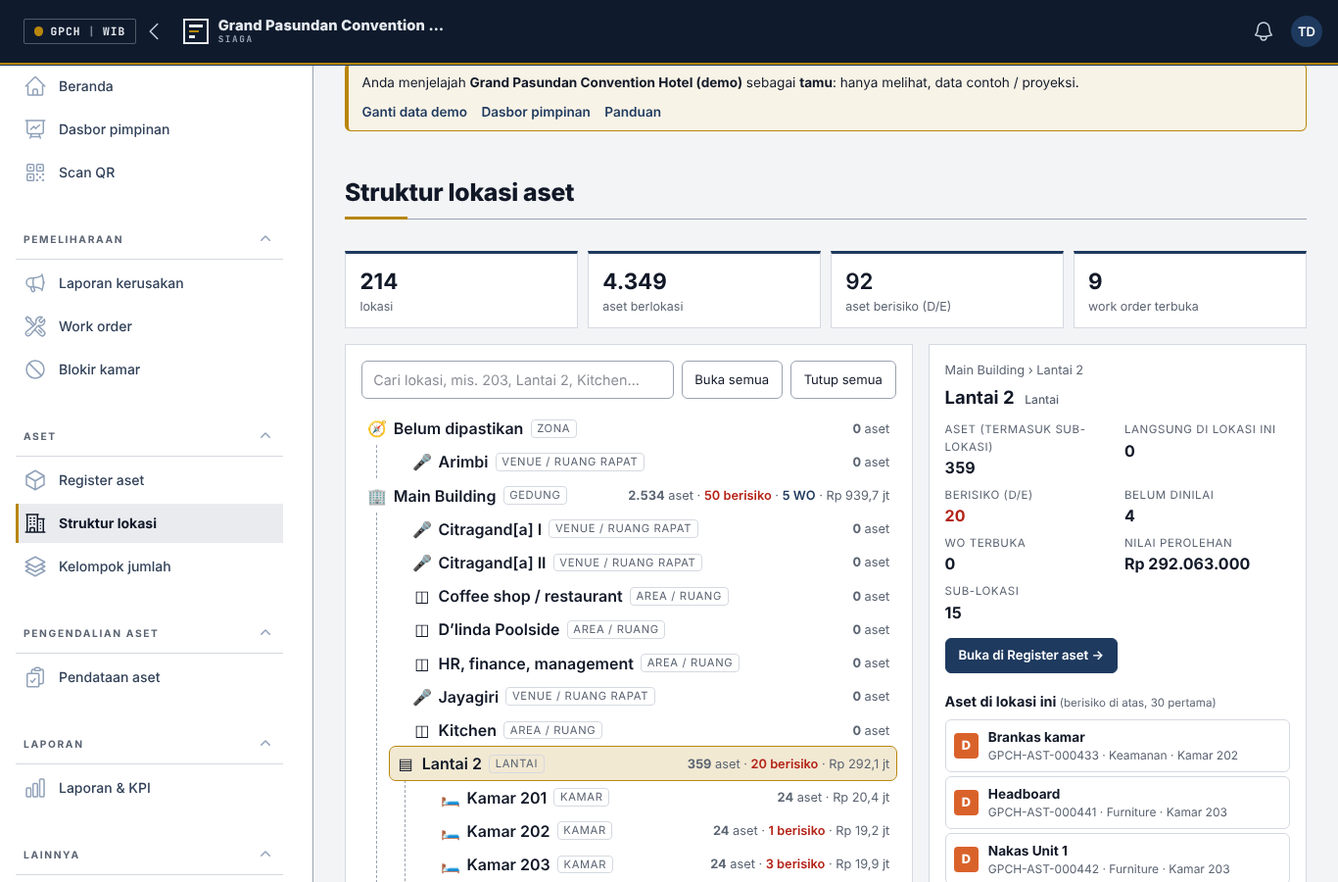
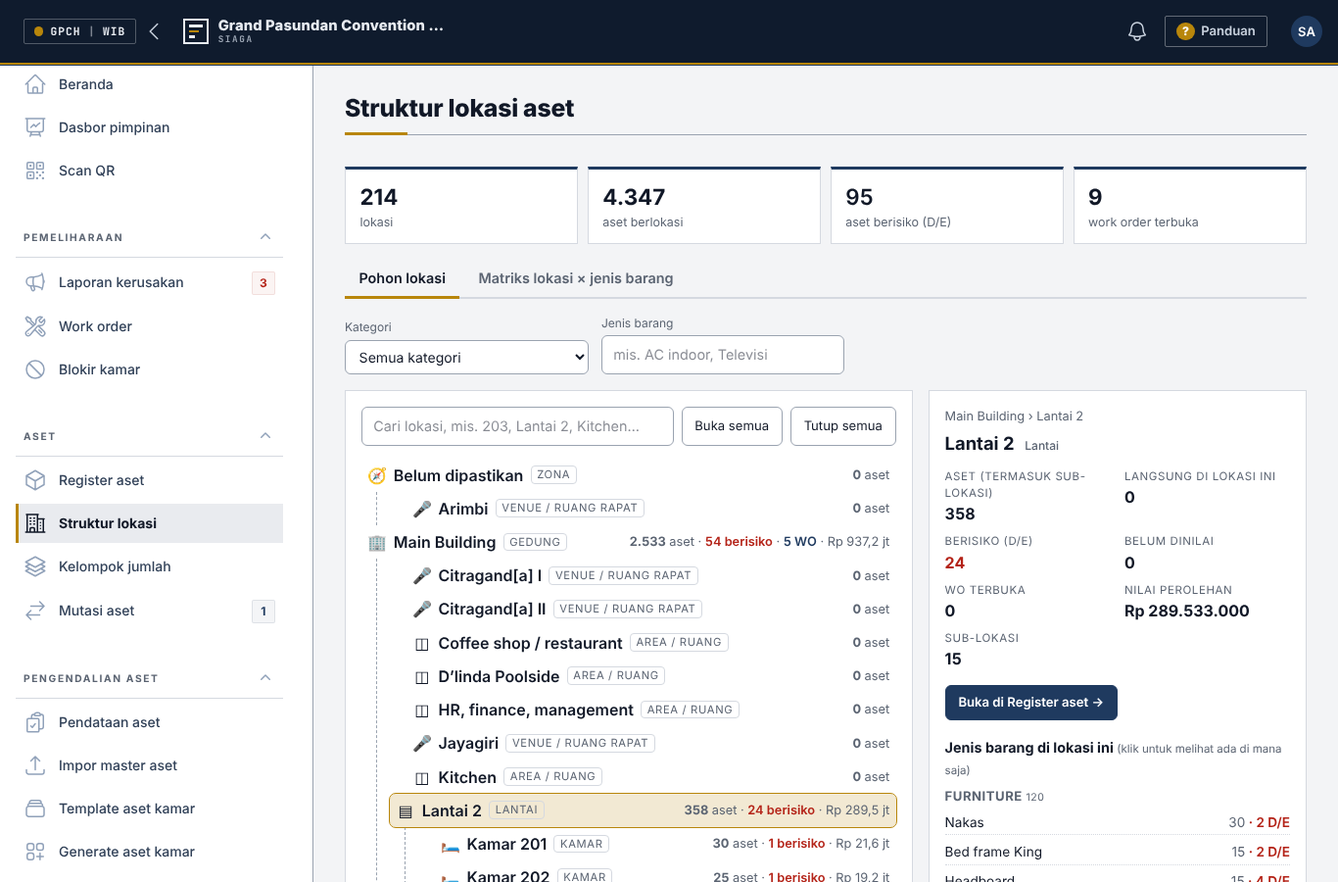
Struktur lokasi: jenis barang per lokasi, filter jenis/kategori, matriks lokasi × jenis barang; dasar peran Direksi grup
Claude-Session: https://claude.ai/code/session_01B7oP2Fde9AGkim8Y5jbJ7W

diff --git a/public/css/assetcare.css b/public/css/assetcare.css
@@ -563,3 +563,32 @@ a { text-underline-offset: 3px; }
 .hp-act { display: flex; flex-wrap: wrap; gap: .4rem; align-items: center; }
 .hp-act input { padding: .4rem .55rem; border: 1px solid var(--k-garis-tegas); background: var(--k-kartu); color: var(--k-tinta); border-radius: 6px; font-size: .85rem; }
 .hp-act input[type=text] { flex: 1 1 200px; }
+.sl-filter { align-items: flex-end; }
+.sl-filter .sl-q { min-width: 14rem; flex: none; height: auto; }
+.sl-views { flex-basis: 100%; margin: 0 0 .2rem; }
+.sl-where { margin: 0 0 1rem; } .sl-where a { color: var(--p); }
+.sl-types { display: grid; gap: .6rem; }
+.sl-tcat { margin: 0 0 .2rem; font-weight: 700; font-size: .82rem; text-transform: uppercase; letter-spacing: .04em; color: var(--k-tinta-2); }
+.sl-tcat small { font-weight: 400; }
+.sl-types ul { list-style: none; margin: 0; padding: 0; display: grid; grid-template-columns: repeat(auto-fill, minmax(170px, 1fr)); gap: .25rem .8rem; }
+.sl-types li { display: flex; justify-content: space-between; gap: .4rem; font-size: .85rem; border-bottom: 1px dotted var(--k-garis); padding: .15rem 0; }
+.sl-types a { color: var(--k-tinta); text-decoration: none; } .sl-types a:hover { color: var(--p); text-decoration: underline; }
+.sl-types span { color: var(--k-tinta-2); white-space: nowrap; }
+.sl-mx-card { padding: .8rem; }
+.sl-mx-wrap { overflow: auto; max-height: 75vh; border: 1px solid var(--k-garis); }
+.sl-mx { border-collapse: separate; border-spacing: 0; font-size: .8rem; }
+.sl-mx th, .sl-mx td { border-right: 1px solid var(--k-garis); border-bottom: 1px solid var(--k-garis); }
+.sl-mx thead th { position: sticky; top: 0; background: var(--k-kartu); z-index: 2; }
+.sl-mx-corner { position: sticky; left: 0; z-index: 3 !important; text-align: left; font-size: .72rem; color: var(--k-tinta-2); padding: .4rem; vertical-align: bottom; min-width: 14rem; }
+.sl-mx-col { height: 9.5rem; width: 2.6rem; min-width: 2.6rem; vertical-align: bottom; padding: .3rem 0; }
+.sl-mx-col span, .sl-mx-col a { writing-mode: vertical-rl; transform: rotate(180deg); white-space: nowrap; font-weight: 600; color: var(--k-tinta); text-decoration: none; font-size: .78rem; margin: 0 auto; display: block; max-height: 9rem; overflow: hidden; text-overflow: ellipsis; }
+.sl-mx-col a:hover span { color: var(--p); text-decoration: underline; }
+.sl-mx-row { position: sticky; left: 0; background: var(--k-kartu); z-index: 1; text-align: left; font-weight: 500; padding: .3rem .5rem; white-space: nowrap; max-width: 22rem; overflow: hidden; text-overflow: ellipsis; }
+.sl-mx-row a { color: var(--k-tinta); text-decoration: none; } .sl-mx-row a:hover { color: var(--p); text-decoration: underline; }
+.sl-mx td { text-align: center; padding: 0; height: 1.9rem; font-variant-numeric: tabular-nums; }
+.sl-mx td[style] { background: color-mix(in srgb, var(--p) calc(var(--mx) * 100%), var(--k-kartu)); }
+.sl-mx td a { display: block; line-height: 1.9rem; color: var(--k-tinta); text-decoration: none; }
+.sl-mx td.dk a { color: #fff; font-weight: 600; }
+.sl-mx td a:hover { outline: 2px solid var(--a); outline-offset: -2px; }
+.sl-mx-sum { font-weight: 700; background: var(--k-latar, transparent); padding: 0 .4rem !important; }
+.sl-mx tfoot th, .sl-mx tfoot td { position: sticky; bottom: 0; background: var(--k-kartu); }

diff --git a/app/Filament/Pages/StrukturLokasi.php b/app/Filament/Pages/StrukturLokasi.php
@@ -31,6 +31,33 @@ class StrukturLokasi extends Page
     #[Url(as: 'pilih')]
     public ?int $pilih = null;
 
+    #[Url]
+    public ?int $kategori = null;
+
+    #[Url]
+    public ?string $jenis = null;
+
+    #[Url]
+    public string $tampilan = 'pohon';
+
+    #[Url]
+    public string $baris = 'lantai';
+
+    /** "Nakas Unit 2" → "Nakas"; "Lampu baca/tidur Unit 1" → "Lampu baca/tidur" */
+    public static function typeName(string $name): string
+    {
+        return trim(preg_replace('/\s+(unit|no\.?|#)\s*\d+$/i', '', $name));
+    }
+
+    /** Terapkan filter kategori / jenis barang ke query aset. */
+    protected function filterAssets($q)
+    {
+        return $q->when($this->kategori, fn ($q) => $q->where('category_id', $this->kategori))
+            ->when(filled($this->jenis), fn ($q) => $q->where(fn ($w) => $w->where('name', $this->jenis)
+                ->orWhere('name', 'like', addcslashes($this->jenis, '%_\\').' Unit %')
+                ->orWhere('name', 'like', addcslashes($this->jenis, '%_\\').' No%')));
+    }
+
     public static function canAccess(): bool
     {
         return (bool) auth()->user()?->hasPermission('asset.view');
@@ -44,15 +71,17 @@ class StrukturLokasi extends Page
             ->get(['id', 'parent_id', 'name', 'code', 'location_type', 'room_ref', 'full_path', 'pms_room_status']);
 
         // agregat aset per lokasi langsung
-        $rows = Asset::query()->where('lifecycle_status', '!=', 'disposed')->whereNotNull('location_id')
+        $filtered = $this->kategori || filled($this->jenis);
+        $rows = $this->filterAssets(Asset::query())->whereNotIn('lifecycle_status', ['disposed', 'lost'])->whereNotNull('location_id')
             ->select('location_id', DB::raw('count(*) as n'),
                 DB::raw("sum(condition_grade in ('D','E')) as risk"),
                 DB::raw('sum(condition_grade is null) as unrated'))
             ->groupBy('location_id')->get()->keyBy('location_id');
-        $value = $financial ? DB::table('assets')->join('asset_financials', 'asset_financials.asset_id', '=', 'assets.id')
-            ->where('assets.property_id', $pid)->whereNotNull('assets.location_id')
+        $value = $financial ? $this->filterAssets(DB::table('assets'))->join('asset_financials', 'asset_financials.asset_id', '=', 'assets.id')
+            ->where('assets.property_id', $pid)->whereNotNull('assets.location_id')->whereNotIn('assets.lifecycle_status', ['disposed', 'lost'])
             ->groupBy('assets.location_id')->selectRaw('assets.location_id as loc, sum(asset_financials.acquisition_cost) as v')->pluck('v', 'loc') : collect();
         $wo = WorkOrder::query()->whereIn('status', WorkOrder::OPEN)->whereNotNull('location_id')
+            ->when($this->kategori || filled($this->jenis), fn ($q) => $q->whereIn('asset_id', $this->filterAssets(Asset::query())->select('id')))
             ->groupBy('location_id')->selectRaw('location_id, count(*) as c')->pluck('c', 'location_id');
 
         $nodes = [];
@@ -87,8 +116,16 @@ class StrukturLokasi extends Page
             $sum($r);
         }
 
+        if ($filtered) {
+            $keep = fn (int $id) => $nodes[$id]['n'] > 0;
+            foreach ($nodes as $id => $n) {
+                $nodes[$id]['children'] = array_values(array_filter($n['children'], $keep));
+            }
+            $roots = array_values(array_filter($roots, $keep));
+        }
         $sel = $this->pilih && isset($nodes[$this->pilih]) ? $nodes[$this->pilih] : null;
         $selAssets = collect();
+        $selTypes = collect();
         $crumbs = [];
         if ($sel) {
             $ids = [];
@@ -99,8 +136,15 @@ class StrukturLokasi extends Page
                 }
             };
             $walk($sel['id']);
-            $selAssets = Asset::query()->with(['category:id,name', 'location:id,name'])->whereIn('location_id', $ids)
-                ->where('lifecycle_status', '!=', 'disposed')
+            // jenis barang di lokasi ini (termasuk sub-lokasi)
+            $selTypes = Asset::query()->whereIn('location_id', $ids)->whereNotIn('lifecycle_status', ['disposed', 'lost'])
+                ->with('category:id,name')->select('name', 'category_id', DB::raw('count(*) as n'), DB::raw("sum(condition_grade in ('D','E')) as risk"))
+                ->groupBy('name', 'category_id')->get()
+                ->groupBy(fn ($r) => $r->category?->name ?? 'Tanpa kategori')
+                ->map(fn ($g) => $g->groupBy(fn ($r) => static::typeName($r->name))->map(fn ($x) => ['n' => $x->sum('n'), 'risk' => (int) $x->sum('risk')])->sortByDesc('n'))
+                ->sortByDesc(fn ($g) => $g->sum('n'));
+            $selAssets = $this->filterAssets(Asset::query())->with(['category:id,name', 'location:id,name'])->whereIn('location_id', $ids)
+                ->whereNotIn('lifecycle_status', ['disposed', 'lost'])
                 ->orderByRaw("case when condition_grade in ('D','E') then 0 when condition_grade = 'C' then 1 else 2 end")
                 ->orderBy('asset_code')->limit(30)->get();
             for ($p = $sel; $p; $p = $p['parent'] ? ($nodes[$p['parent']] ?? null) : null) {
@@ -108,13 +152,72 @@ class StrukturLokasi extends Page
             }
         }
 
+        $matrix = $this->tampilan === 'matriks' ? $this->matrix($nodes, $roots) : null;
+
         return [
-            'nodes' => $nodes, 'roots' => $roots, 'sel' => $sel, 'selAssets' => $selAssets, 'crumbs' => $crumbs,
+            'matrix' => $matrix,
+            'nodes' => $nodes, 'roots' => $roots, 'sel' => $sel, 'selAssets' => $selAssets, 'crumbs' => $crumbs, 'selTypes' => $selTypes,
+            'filtered' => $filtered, 'categories' => \App\Models\AssetCategory::query()->orderBy('name')->pluck('name', 'id'),
+            'typeOptions' => Asset::query()->whereNotIn('lifecycle_status', ['disposed', 'lost'])->when($this->kategori, fn ($q) => $q->where('category_id', $this->kategori))
+                ->distinct()->pluck('name')->map(fn ($n) => static::typeName($n))->unique()->sort(SORT_NATURAL | SORT_FLAG_CASE)->values(),
+            'whereList' => $filtered ? collect($nodes)->filter(fn ($n) => $n['own'] > 0)->sortByDesc('own')->take(12)->values() : collect(),
             'financial' => $financial, 'types' => Location::TYPES,
             'total' => ['loc' => count($nodes), 'n' => array_sum(array_map(fn ($r) => $nodes[$r]['n'], $roots)),
                 'risk' => array_sum(array_map(fn ($r) => $nodes[$r]['risk'], $roots)), 'wo' => array_sum(array_map(fn ($r) => $nodes[$r]['wo'], $roots))],
-            'assetsUrl' => fn (int $loc) => AssetResource::getUrl('index').'?'.http_build_query(['filters' => ['location_id' => ['value' => $loc]]]),
+            'assetsUrl' => fn (int $loc) => AssetResource::getUrl('index').'?'.http_build_query(array_filter(['filters' => array_filter(['location_id' => ['value' => $loc], 'category_id' => $this->kategori ? ['value' => $this->kategori] : null]), 'search' => $this->jenis ?: null])),
+            'link' => fn (array $p) => '?'.http_build_query(array_filter($p + ['pilih' => $this->pilih, 'kategori' => $this->kategori, 'jenis' => $this->jenis], fn ($v) => $v !== null && $v !== '')),
             'assetUrl' => fn (Asset $a) => AssetResource::getUrl('view', ['record' => $a]),
         ];
+    }
+
+    /**
+     * Matriks lokasi × jenis barang. Baris = lokasi pada tingkat terpilih (gedung / lantai / ruang),
+     * kolom = kategori (atau jenis barang bila kategori dipilih); sel = jumlah unit termasuk sub-lokasi.
+     */
+    protected function matrix(array $nodes, array $roots): array
+    {
+        $depthWanted = ['gedung' => 0, 'lantai' => 1, 'ruang' => 9][$this->baris] ?? 1;
+        $rowOf = [];
+        $rows = [];
+        $walk = function (int $id, int $depth, ?int $row) use (&$walk, &$rowOf, &$rows, $nodes, $depthWanted) {
+            $leaf = empty($nodes[$id]['children']);
+            if ($row === null && ($depth === $depthWanted || ($depthWanted === 9 && $leaf) || ($depth < $depthWanted && $leaf))) {
+                $row = $id;
+                $rows[] = $id;
+            }
+            $rowOf[$id] = $row;
+            foreach ($nodes[$id]['children'] as $c) {
+                $walk($c, $depth + 1, $row);
+            }
+        };
+        foreach ($roots as $r) {
+            $walk($r, 0, null);
+        }
+        $byType = (bool) $this->kategori;
+        $q = $this->filterAssets(Asset::query())->whereNotIn('lifecycle_status', ['disposed', 'lost'])->whereNotNull('location_id');
+        $data = $byType
+            ? $q->select('location_id', 'name', DB::raw('count(*) as n'))->groupBy('location_id', 'name')->get()->map(fn ($r) => [$r->location_id, static::typeName($r->name), (int) $r->n])
+            : $q->select('location_id', 'category_id', DB::raw('count(*) as n'))->groupBy('location_id', 'category_id')->get()->map(fn ($r) => [$r->location_id, (int) $r->category_id, (int) $r->n]);
+        $cells = [];
+        $colTotal = [];
+        foreach ($data as [$loc, $col, $n]) {
+            $row = $rowOf[$loc] ?? null;
+            if ($row === null) {
+                continue;
+            }
+            $cells[$row][$col] = ($cells[$row][$col] ?? 0) + $n;
+            $colTotal[$col] = ($colTotal[$col] ?? 0) + $n;
+        }
+        arsort($colTotal);
+        $cols = array_slice(array_keys($colTotal), 0, 40);
+        $names = $byType ? array_combine($cols, $cols) : \App\Models\AssetCategory::query()->whereIn('id', $cols)->pluck('name', 'id')->all();
+        $rows = array_values(array_filter($rows, fn ($r) => ! empty($cells[$r])));
+        $max = 1;
+        foreach ($rows as $r) {
+            $max = max($max, ...array_values(array_intersect_key($cells[$r], array_flip($cols))) ?: [1]);
+        }
+
+        return ['rows' => $rows, 'cols' => $cols, 'names' => $names, 'cells' => $cells, 'colTotal' => $colTotal, 'max' => $max,
+            'byType' => $byType, 'more' => max(0, count($colTotal) - count($cols))];
     }
 }

diff --git a/resources/views/filament/pages/struktur-lokasi.blade.php b/resources/views/filament/pages/struktur-lokasi.blade.php
@@ -8,6 +8,71 @@
             <div><b>{{ number_format($total['wo'], 0, ',', '.') }}</b><span>work order terbuka</span></div>
         </div>
 
+        <form method="get" class="ps-filter sl-filter">
+            <div class="so-tabs sl-views">
+                <a href="{{ $link(['tampilan' => 'pohon']) }}" @class(['on' => $tampilan !== 'matriks'])>Pohon lokasi</a>
+                <a href="{{ $link(['tampilan' => 'matriks', 'pilih' => null]) }}" @class(['on' => $tampilan === 'matriks'])>Matriks lokasi × jenis barang</a>
+            </div>
+            <input type="hidden" name="tampilan" value="{{ $tampilan }}">
+            @if ($pilih && $tampilan !== 'matriks')<input type="hidden" name="pilih" value="{{ $pilih }}">@endif
+            <label>Kategori
+                <select name="kategori" onchange="this.form.jenis.value=''; this.form.submit()">
+                    <option value="">Semua kategori</option>
+                    @foreach ($categories as $id => $n)<option value="{{ $id }}" @selected($id == $kategori)>{{ $n }}</option>@endforeach
+                </select>
+            </label>
+            <label>Jenis barang
+                <input type="search" name="jenis" value="{{ $jenis }}" list="sl-types" placeholder="mis. AC indoor, Televisi" onchange="this.form.submit()" class="sl-q">
+                <datalist id="sl-types">@foreach ($typeOptions as $t)<option value="{{ $t }}">@endforeach</datalist>
+            </label>
+            @if ($tampilan === 'matriks')
+            <label>Baris
+                <select name="baris" onchange="this.form.submit()">
+                    @foreach (['gedung' => 'Gedung / wilayah', 'lantai' => 'Lantai & area', 'ruang' => 'Kamar / ruang'] as $k => $v)<option value="{{ $k }}" @selected($baris === $k)>{{ $v }}</option>@endforeach
+                </select>
+            </label>
+            @endif
+            @if ($filtered)<a class="sl-btn" href="{{ $link(['kategori' => null, 'jenis' => null]) }}">Hapus filter</a>@endif
+        </form>
+        @if ($filtered)
+            <div class="ps-note sl-where">
+                <b>{{ $jenis ?: ($categories[$kategori] ?? '') }}</b>: {{ number_format($total['n'], 0, ',', '.') }} unit di {{ collect($nodes)->filter(fn ($n) => $n['own'] > 0)->count() }} lokasi.
+                @if ($whereList->isNotEmpty()) Terbanyak:
+                    @foreach ($whereList->take(6) as $w)<a href="{{ $link(['pilih' => $w['id'], 'tampilan' => 'pohon']) }}">{{ $w['path'] }}</a> ({{ $w['own'] }})@if (! $loop->last), @endif @endforeach
+                @endif
+            </div>
+        @endif
+
+        @if ($tampilan === 'matriks' && $matrix)
+            <section class="sl-tree-card sl-mx-card">
+                @if (! $matrix['rows'])
+                    <p class="sl-empty">Tidak ada aset yang cocok.</p>
+                @else
+                <p class="sl-empty">Angka = jumlah unit (termasuk sub-lokasi). Warna makin gelap = makin banyak. Klik nama kolom untuk melihat {{ $matrix['byType'] ? 'jenis' : 'kategori' }} itu ada di mana; klik sel untuk membuka lokasinya di pohon.@if ($matrix['more']) {{ $matrix['more'] }} kolom kecil lain tidak ditampilkan; pilih kategori untuk merinci.@endif</p>
+                <div class="sl-mx-wrap"><table class="sl-mx">
+                    <thead><tr><th class="sl-mx-corner">Lokasi \ {{ $matrix['byType'] ? 'jenis barang' : 'kategori' }}</th>
+                        @foreach ($matrix['cols'] as $c)
+                            <th class="sl-mx-col"><a href="{{ $matrix['byType'] ? $link(['jenis' => $c]) : $link(['kategori' => $c, 'jenis' => null]) }}"><span>{{ $matrix['names'][$c] ?? $c }}</span></a></th>
+                        @endforeach
+                        <th class="sl-mx-col"><span>Jumlah</span></th></tr></thead>
+                    <tbody>
+                    @foreach ($matrix['rows'] as $r)
+                        @php $rowSum = array_sum($matrix['cells'][$r]); @endphp
+                        <tr><th class="sl-mx-row"><a href="{{ $link(['pilih' => $r, 'tampilan' => 'pohon']) }}">{{ $nodes[$r]['path'] }}</a></th>
+                            @foreach ($matrix['cols'] as $c)
+                                @php $v = $matrix['cells'][$r][$c] ?? 0; $a = $v ? round(.12 + .78 * sqrt($v / $matrix['max']), 2) : 0; @endphp
+                                <td @if ($v) style="--mx: {{ $a }}" class="{{ $a > .55 ? 'dk' : '' }}" @endif>@if ($v)<a href="{{ $matrix['byType'] ? $link(['pilih' => $r, 'tampilan' => 'pohon', 'jenis' => $c]) : $link(['pilih' => $r, 'tampilan' => 'pohon', 'kategori' => $c]) }}">{{ $v }}</a>@endif</td>
+                            @endforeach
+                            <td class="sl-mx-sum">{{ number_format($rowSum, 0, ',', '.') }}</td></tr>
+                    @endforeach
+                    </tbody>
+                    <tfoot><tr><th class="sl-mx-row">Jumlah</th>
+                        @foreach ($matrix['cols'] as $c)<td class="sl-mx-sum">{{ number_format($matrix['colTotal'][$c], 0, ',', '.') }}</td>@endforeach
+                        <td class="sl-mx-sum">{{ number_format(array_sum($matrix['colTotal']), 0, ',', '.') }}</td></tr></tfoot>
+                </table></div>
+                @endif
+            </section>
+        @else
         <div class="sl-grid">
             <section class="sl-tree-card">
                 <div class="sl-tools">
@@ -40,6 +105,16 @@
                         <div><dt>Sub-lokasi</dt><dd>{{ count($sel['children']) }}</dd></div>
                     </dl>
                     <a class="sl-btn sl-btn-p" href="{{ $assetsUrl($sel['id']) }}">Buka di Register aset →</a>
+                    @if ($selTypes->isNotEmpty())
+                        <h3 class="sl-sub">Jenis barang di lokasi ini <small>(klik untuk melihat ada di mana saja)</small></h3>
+                        <div class="sl-types">
+                            @foreach ($selTypes as $cat => $types)
+                                <div><p class="sl-tcat">{{ $cat }} <small>{{ $types->sum('n') }}</small></p>
+                                    <ul>@foreach ($types as $t => $x)<li><a href="{{ $link(['jenis' => $t, 'kategori' => null]) }}">{{ $t }}</a><span>{{ $x['n'] }}@if ($x['risk'])<b class="sl-bad"> · {{ $x['risk'] }} D/E</b>@endif</span></li>@endforeach</ul>
+                                </div>
+                            @endforeach
+                        </div>
+                    @endif
                     <h3 class="sl-sub">Aset di lokasi ini <small>(berisiko di atas{{ $sel['n'] > 30 ? ', 30 pertama' : '' }})</small></h3>
                     @if ($selAssets->isEmpty())
                         <p class="sl-empty">Belum ada aset tercatat di lokasi ini.</p>
@@ -61,6 +136,7 @@
                 @endif
             </aside>
         </div>
+        @endif
     </div>
     <script>
         (() => {

diff --git a/app/Support/PermissionCatalog.php b/app/Support/PermissionCatalog.php
@@ -26,6 +26,8 @@ class PermissionCatalog
         'label.print' => ['Membuat batch & cetak label QR', 'Aset'],
         'label.rotate' => ['Rotasi token label (nonaktifkan label lama)', 'Aset'],
         'label.install' => ['Konfirmasi pemasangan label', 'Aset'],
+        'group.view' => ['Melihat konsolidasi grup & berpindah perusahaan', 'Umum'],
+        'pm.manage' => ['Mengelola jadwal PM, inspeksi & kalibrasi', 'Pemeliharaan'],
         'stocktake.count' => ['Stock opname: mencatat hasil hitung fisik', 'Aset'],
         'stocktake.manage' => ['Stock opname: membuat, menutup & menerapkan hasil', 'Aset'],
         'disposal.request' => ['Mengusulkan penghapusan aset', 'Aset'],
@@ -58,16 +60,17 @@ class PermissionCatalog
     /** slug => [nama, deskripsi, izin[]] ('*' = semua izin) */
     public const ROLES = [
         'super-admin' => ['Super Admin', 'Konsultan / vendor aplikasi — semua izin', ['*']],
+        'group-director' => ['Direksi grup', 'Melihat konsolidasi seluruh perusahaan dalam grup dan berpindah perusahaan (peran global)', ['group.view', 'dashboard.view', 'report.view', 'report.export', 'asset.view', 'asset.view_financial', 'wo.view', 'request.view_all', 'audit.view']],
         'owner' => ['Owner', 'Melihat seluruh kinerja & biaya; memutuskan investasi/penghapusan', ['dashboard.view', 'report.view', 'report.export', 'asset.view', 'asset.view_financial', 'wo.view', 'request.view_all', 'audit.view', 'disposal.approve']],
         'owner-rep' => ['Owner Representative', 'Memantau risiko aset & anggaran; mengkaji prioritas & usulan penggantian', ['dashboard.view', 'report.view', 'report.export', 'asset.view', 'asset.view_financial', 'wo.view', 'request.view_all', 'audit.view']],
         'gm' => ['General Manager', 'Mengawasi operasi, backlog, downtime, SLA & persetujuan sesuai batas nilai', ['dashboard.view', 'report.view', 'report.export', 'asset.view', 'asset.view_financial', 'request.create', 'request.view_all', 'wo.view', 'wo.approve', 'wo.close', 'transfer.approve', 'template.publish', 'audit.view', 'disposal.approve', 'disposal.request']],
-        'chief-engineering' => ['Chief Engineering', 'Triase, prioritas, penjadwalan teknisi & verifikasi pekerjaan', ['dashboard.view', 'report.view', 'report.export', 'asset.view', 'asset.edit', 'asset.verify', 'request.create', 'request.view_all', 'request.triage', 'wo.view', 'wo.create', 'wo.assign', 'wo.execute', 'wo.verify', 'wo.approve', 'wo.close', 'label.install', 'transfer.request', 'transfer.receive', 'template.manage', 'survey.run', 'stocktake.count', 'disposal.request']],
+        'chief-engineering' => ['Chief Engineering', 'Triase, prioritas, penjadwalan teknisi & verifikasi pekerjaan', ['dashboard.view', 'report.view', 'report.export', 'asset.view', 'asset.edit', 'asset.verify', 'request.create', 'request.view_all', 'request.triage', 'wo.view', 'wo.create', 'wo.assign', 'wo.execute', 'wo.verify', 'wo.approve', 'wo.close', 'label.install', 'transfer.request', 'transfer.receive', 'template.manage', 'survey.run', 'stocktake.count', 'disposal.request', 'pm.manage']],
         'technician' => ['Teknisi', 'Melihat tugas & aset relevan; mencatat diagnosis, waktu, material & bukti', ['asset.view', 'request.create', 'wo.view', 'wo.execute', 'label.install', 'transfer.receive']],
         'hod' => ['HOD', 'Melapor, melihat laporan departemennya, mengonfirmasi layanan & kondisi aset', ['asset.view', 'request.create', 'wo.view', 'report.view', 'transfer.request', 'transfer.approve']],
         'surveyor' => ['Petugas Pendataan', 'Keliling kamar/area: tempel label QR, cek isi kamar, catat kondisi & foto', ['asset.view', 'asset.verify', 'label.install', 'survey.run', 'request.create', 'stocktake.count']],
         'reporter' => ['Pelapor (staf)', 'Membuat laporan kerusakan & melihat laporan sendiri', ['asset.view', 'request.create']],
         'front-office' => ['Front Office', 'Melapor & mengonfirmasi blokir kamar terkait perbaikan', ['asset.view', 'request.create', 'room.block_confirm', 'wo.view']],
-        'asset-controller' => ['Asset Controller', 'Memelihara register, label & inventarisasi; mengusulkan mutasi & koreksi', ['dashboard.view', 'report.view', 'report.export', 'asset.view', 'asset.edit', 'asset.verify', 'asset.activate', 'template.manage', 'generation.run', 'label.print', 'label.rotate', 'label.install', 'survey.run', 'transfer.request', 'transfer.receive', 'reference.manage', 'request.create', 'stocktake.count', 'stocktake.manage', 'disposal.request']],
+        'asset-controller' => ['Asset Controller', 'Memelihara register, label & inventarisasi; mengusulkan mutasi & koreksi', ['dashboard.view', 'report.view', 'report.export', 'asset.view', 'asset.edit', 'asset.verify', 'asset.activate', 'template.manage', 'generation.run', 'label.print', 'label.rotate', 'label.install', 'survey.run', 'transfer.request', 'transfer.receive', 'reference.manage', 'request.create', 'stocktake.count', 'stocktake.manage', 'disposal.request', 'pm.manage']],
         'finance' => ['Finance / Chief Accountant', 'Data finansial, validasi biaya, anggaran & rekonsiliasi', ['dashboard.view', 'report.view', 'report.export', 'asset.view', 'asset.view_financial', 'asset.edit_financial', 'wo.view', 'wo.approve', 'wo.cost_finalize', 'request.view_all', 'transfer.approve', 'stocktake.manage', 'disposal.request', 'disposal.approve']],
         'storekeeper' => ['Storekeeper', 'Mengelola stok engineering (rilis B)', ['asset.view', 'wo.view', 'request.create']],
         'purchasing' => ['Purchasing', 'Vendor & referensi pembelian', ['asset.view', 'wo.view', 'request.create', 'reference.manage']],

diff --git a/app/Support/CurrentProperty.php b/app/Support/CurrentProperty.php
@@ -20,12 +20,39 @@ class CurrentProperty
             $this->resolved = true;
             $user = auth()->user();
             $id = $user?->property_id;
+            // direksi grup / super admin dapat berpindah perusahaan aktif (disimpan di sesi)
+            if ($user && ($switch = static::sessionProperty()) && static::canSwitch($user)) {
+                $id = $switch;
+            }
             $this->property = $id
                 ? Property::find($id)
                 : (Property::where('code', config('assetcare.property_code'))->first() ?? Property::orderBy('id')->first());
         }
 
         return $this->property;
+    }
+
+    /** Pengguna dengan peran global (tanpa ikatan perusahaan) yang memiliki izin group.view, atau Super Admin. */
+    public static function canSwitch(?\App\Models\User $user): bool
+    {
+        if (! $user) {
+            return false;
+        }
+        $user->loadMissing('roles.permissions');
+
+        return $user->roles->contains(fn ($r) => $r->pivot->property_id === null
+            && ($r->slug === 'super-admin' || $r->permissions->contains('slug', 'group.view')));
+    }
+
+    protected static function sessionProperty(): ?int
+    {
+        try {
+            $v = request()->hasSession() ? request()->session()->get('active_property_id') : null;
+        } catch (\Throwable) {
+            $v = null;
+        }
+
+        return $v && Property::whereKey($v)->where('is_active', true)->exists() ? (int) $v : null;
     }
 
     public function id(): ?int

diff --git a/tests/Feature/LandingTest.php b/tests/Feature/LandingTest.php
@@ -57,6 +57,8 @@ class LandingTest extends TestCase
         $this->assertFalse($u->hasPermission('asset.edit'));
         $this->get(DasborPimpinan::getUrl())->assertOk()->assertSee('Sorotan untuk pimpinan')->assertSee('ac-guest-banner', false)->assertSee('Kondisi aset per lokasi');
         $this->get(\App\Filament\Pages\StrukturLokasi::getUrl())->assertOk()->assertSee('Struktur lokasi aset')->assertSee('sl-tree', false);
+        $this->get(\App\Filament\Pages\StrukturLokasi::getUrl().'?tampilan=matriks')->assertOk()->assertSee('sl-mx', false);
+        $this->get(\App\Filament\Pages\StrukturLokasi::getUrl().'?jenis=AC')->assertOk();
         $this->get('/admin/profile')->assertRedirect();
     }
 

diff --git a/resources/help/struktur-lokasi.md b/resources/help/struktur-lokasi.md
@@ -20,3 +20,15 @@ Pohon lokasi aset: gedung › lantai › kamar / ruang / area, lengkap dengan ju
 ## Tips
 - Lokasi tanpa aset biasanya belum didata. Cek progresnya di **Pendataan aset › Progres**.
 - Lantai atau gedung dengan banyak aset berisiko adalah kandidat program perbaikan / penggantian per area.
+
+## Jenis barang: ada apa di sini, dan ada di mana
+- Panel kanan menampilkan **Jenis barang di lokasi ini**, dikelompokkan per kategori, beserta jumlah unit dan aset berisiko D/E. "Nakas Unit 1" dan "Nakas Unit 2" dihitung sebagai satu jenis "Nakas".
+- Klik salah satu jenis, atau isi **Jenis barang** / **Kategori** di atas pohon. Pohon kemudian hanya menampilkan lokasi yang memiliki barang tersebut, lengkap dengan jumlahnya, serta ringkasan "N unit di M lokasi" dan lokasi terbanyak.
+
+## Matriks lokasi × jenis barang
+Tab **Matriks** menampilkan tabel: baris = lokasi (pilih tingkat **Gedung**, **Lantai & area**, atau **Kamar / ruang**), kolom = kategori. Bila kategori dipilih, kolom berubah menjadi jenis barang. Warna sel makin gelap bila jumlahnya makin banyak.
+- Baca **satu baris** untuk melihat isi sebuah lokasi.
+- Baca **satu kolom** untuk melihat sebaran sebuah jenis barang. Klik judul kolom untuk merinci.
+- Klik **sel** untuk membuka lokasi itu di pohon dengan filter yang sama.
+
+![Matriks lokasi × jenis barang](img/struktur-lokasi-matriks.png)
